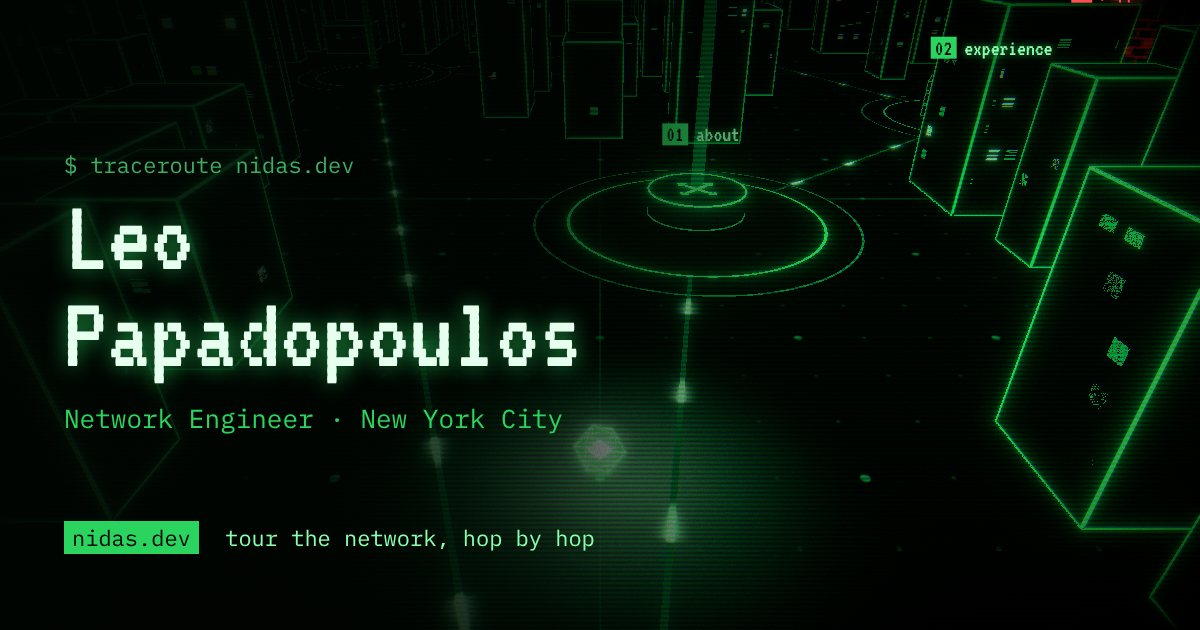
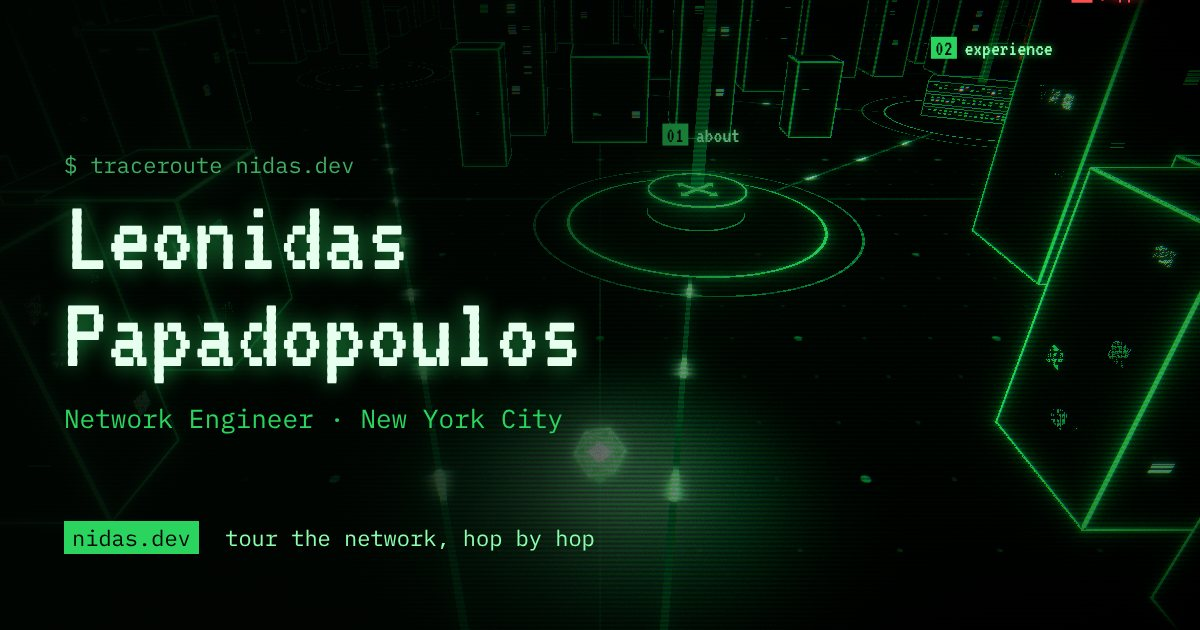
Name, experience copy, and canonical URLs
- Full first name: Leonidas Papadopoulos in the 2D hero, page titles,
  descriptions, the share image and the footer.
- The hero name scales with the viewport: one line on desktop, two lines on
  phones, never wider than the screen (checked from 280 to 1920 px).
- Promenet: "managed services provider (MSP)".
- POM Recoveries: plainer summary; first bullet lists the infrastructure
  (network switches, firewall, router, servers and endpoints).
- About: "a systems administrator at POM Recoveries".
- Canonical, og:url and the sitemap use the trailing-slash URLs Netlify
  serves; the 404 page has no canonical.

Claude-Session: https://claude.ai/code/session_0122m4m4mKkfdb9TJ8bdCd4t

diff --git a/src/site/sections.ts b/src/site/sections.ts
@@ -15,9 +15,9 @@ export interface SectionMeta {
 const site = 'nidas.dev'
 
 export const sections: SectionMeta[] = [
-  { id: 'about', hop: 1, label: 'about', host: 'core-rtr.about', title: `About · Leo Papadopoulos · ${site}`, description: 'Leo Papadopoulos is a network engineer in New York working on client networks, wireless and firewalls, now heading toward security.' },
-  { id: 'experience', hop: 2, label: 'experience', host: 'dist-sw.experience', title: `Experience · Leo Papadopoulos · ${site}`, description: 'Network Engineer at Promenet, Inc. in New York: VLANs, HA/failover, firewall migrations, wireless surveys, structured cabling and SaaS administration.' },
-  { id: 'contact', hop: 3, label: 'contact', host: 'ap.contact', title: `Contact · Leo Papadopoulos · ${site}`, description: 'Contact Leo Papadopoulos, network engineer in New York: email and GitHub.' },
+  { id: 'about', hop: 1, label: 'about', host: 'core-rtr.about', title: `About · Leonidas Papadopoulos · ${site}`, description: 'Leonidas Papadopoulos is a network engineer in New York working on client networks, wireless and firewalls, now heading toward security.' },
+  { id: 'experience', hop: 2, label: 'experience', host: 'dist-sw.experience', title: `Experience · Leonidas Papadopoulos · ${site}`, description: 'Network Engineer at Promenet, Inc. in New York: VLANs, HA/failover, firewall migrations, wireless surveys, structured cabling and SaaS administration.' },
+  { id: 'contact', hop: 3, label: 'contact', host: 'ap.contact', title: `Contact · Leonidas Papadopoulos · ${site}`, description: 'Contact Leonidas Papadopoulos, network engineer in New York: email and GitHub.' },
   { id: 'apps', hop: 4, label: '/apps', host: 'fw.private', title: `ACCESS DENIED · ${site}`, description: 'Private dashboards live behind this firewall. Access denied.' },
 ]
 
@@ -26,6 +26,6 @@ export const sectionById = (id: string | undefined) => sections.find((s) => s.id
 export const isSectionId = (id: string | undefined): id is SectionId => !!sectionById(id)
 
 export const home = {
-  title: 'Leo Papadopoulos · Network Engineer · nidas.dev',
-  description: 'Leo Papadopoulos, network engineer in New York. Tour the site as a traceroute through a small network district, or read the text version.',
+  title: 'Leonidas Papadopoulos · Network Engineer · nidas.dev',
+  description: 'Leonidas Papadopoulos, network engineer in New York. Tour the site as a traceroute through a small network district, or read the text version.',
 }

diff --git a/index.html b/index.html
@@ -3,14 +3,14 @@
   <head>
     <meta charset="UTF-8" />
     <meta name="viewport" content="width=device-width, initial-scale=1.0, viewport-fit=cover" />
-    <title>Leo Papadopoulos · Network Engineer · nidas.dev</title>
-    <meta name="description" content="Leo Papadopoulos, network engineer in New York. Tour the site as a traceroute through a small network district, or read the text version." />
+    <title>Leonidas Papadopoulos · Network Engineer · nidas.dev</title>
+    <meta name="description" content="Leonidas Papadopoulos, network engineer in New York. Tour the site as a traceroute through a small network district, or read the text version." />
     <meta name="theme-color" content="#010502" />
     <link rel="canonical" href="https://www.nidas.dev/" />
     <meta property="og:type" content="website" />
     <meta property="og:site_name" content="nidas.dev" />
-    <meta property="og:title" content="Leo Papadopoulos · Network Engineer · nidas.dev" />
-    <meta property="og:description" content="Leo Papadopoulos, network engineer in New York. Tour the site as a traceroute through a small network district, or read the text version." />
+    <meta property="og:title" content="Leonidas Papadopoulos · Network Engineer · nidas.dev" />
+    <meta property="og:description" content="Leonidas Papadopoulos, network engineer in New York. Tour the site as a traceroute through a small network district, or read the text version." />
     <meta property="og:url" content="https://www.nidas.dev/" />
     <meta property="og:image" content="https://www.nidas.dev/og.jpg" />
     <meta property="og:image:width" content="1200" />

diff --git a/src/content/experience.ts b/src/content/experience.ts
@@ -8,7 +8,7 @@ export const experience: Job[] = [
     location: 'New York, NY',
     start: '2024',
     end: null,
-    summary: 'Client site engineering for a managed IT provider: design, build and support of client networks and SaaS environments.',
+    summary: 'Client site engineering for a managed services provider (MSP): design, build and support of client networks and SaaS environments.',
     highlights: [
       'VLAN design and trunking across client sites',
       'High-availability and failover configurations',
@@ -27,9 +27,9 @@ export const experience: Job[] = [
     location: 'Farmingdale, NY',
     start: '2019',
     end: '2022',
-    summary: 'In-house IT: ran the company’s infrastructure and security, from network servers to staff computers and phones.',
+    summary: 'Responsible for the company’s IT infrastructure and security.',
     highlights: [
-      'Managed network servers and systems',
+      'Managed the infrastructure end to end: network switches, firewall, router, servers and endpoints',
       'Moved the company from in-office to a virtual work environment during the pandemic',
       'Prepared new computers and mobile devices to standard software and security policies',
       'Diagnosed hardware and network issues with proactive troubleshooting',

diff --git a/src/content/profile.ts b/src/content/profile.ts
@@ -1,14 +1,14 @@
 import type { Profile } from './types'
 
 export const profile: Profile = {
-  name: 'Leo Papadopoulos',
+  name: 'Leonidas Papadopoulos',
   shortName: 'Leo',
   role: 'Network Engineer',
   location: 'New York City', // TODO: confirm how Leo wants location shown
   summary: 'Network engineer in New York. I design, build and support client networks: switching, wireless, firewalls, and the SaaS that runs on top of them.',
   about: [
     'At Promenet I do client site engineering: VLANs and trunking, HA and failover, firewall migrations, wireless surveys and structured cabling, plus the SaaS administration and documentation that keep it all running.',
-    'Before that I was an in-house systems administrator. I hold an M.S. in Software Engineering from Stevens and a B.S. in Computer Science from NYIT.',
+    'Before that I was a systems administrator at POM Recoveries. I hold an M.S. in Software Engineering from Stevens and a B.S. in Computer Science from NYIT.',
   ],
   focus: 'Working toward the CCNA and moving toward cybersecurity.',
   site: 'nidas.dev',

diff --git a/src/site/twod.css b/src/site/twod.css
@@ -23,10 +23,14 @@
 }
 .tw__name {
   margin: 0;
-  font: 400 clamp(56px, 11vw, 104px) / 0.9 var(--f-display);
+  /* "Papadopoulos" is ~4.9em wide and the full name ~8.6em in VT323: the size keeps the
+     surname inside the side gutters on any phone and the full name on one line on desktop. */
+  font: 400 clamp(40px, calc((100vw - 32px) / 5.5), 96px) / 0.9 var(--f-display);
   color: var(--bright);
   text-shadow: 0 0 18px rgba(43, 212, 95, 0.55);
   letter-spacing: 0.01em;
+  text-wrap: balance;
+  overflow-wrap: anywhere;
 }
 .tw__role {
   margin: 10px 0 0;

diff --git a/CLAUDE.md b/CLAUDE.md
@@ -1,6 +1,6 @@
 # nidas.dev v2 · "Packet"
 
-Leo Papadopoulos's portfolio. Visitors steer a data packet through a small network district; each node is a section and the HUD reads like `traceroute`. Visual direction: **B · Phosphor** (single green hue on a dark CRT; red only for ACCESS DENIED). A complete 2D text version ships with every route.
+Leonidas Papadopoulos's portfolio. Visitors steer a data packet through a small network district; each node is a section and the HUD reads like `traceroute`. Visual direction: **B · Phosphor** (single green hue on a dark CRT; red only for ACCESS DENIED). A complete 2D text version ships with every route.
 
 ## Stack
 
